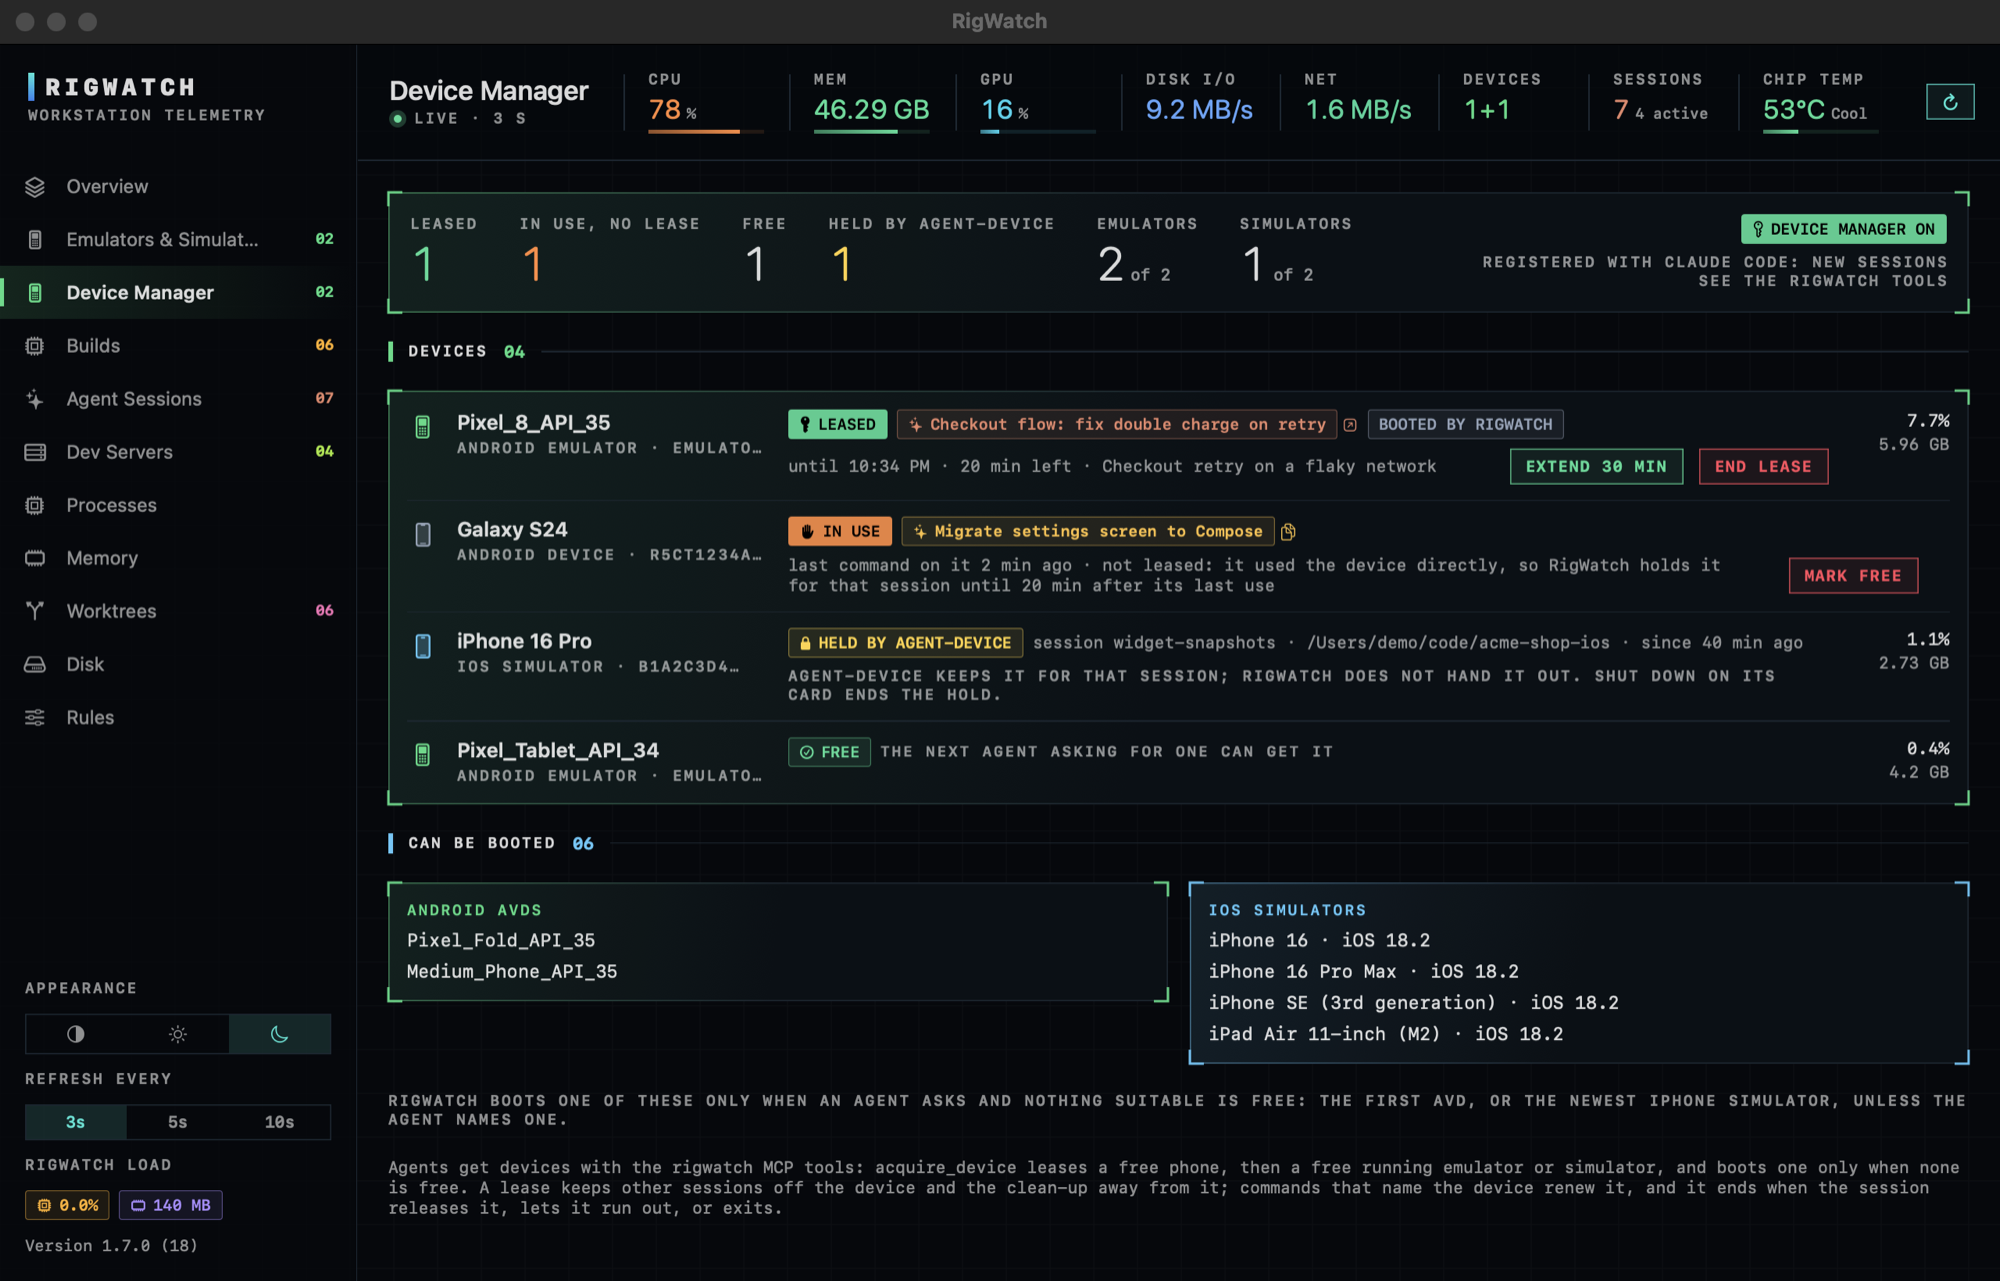
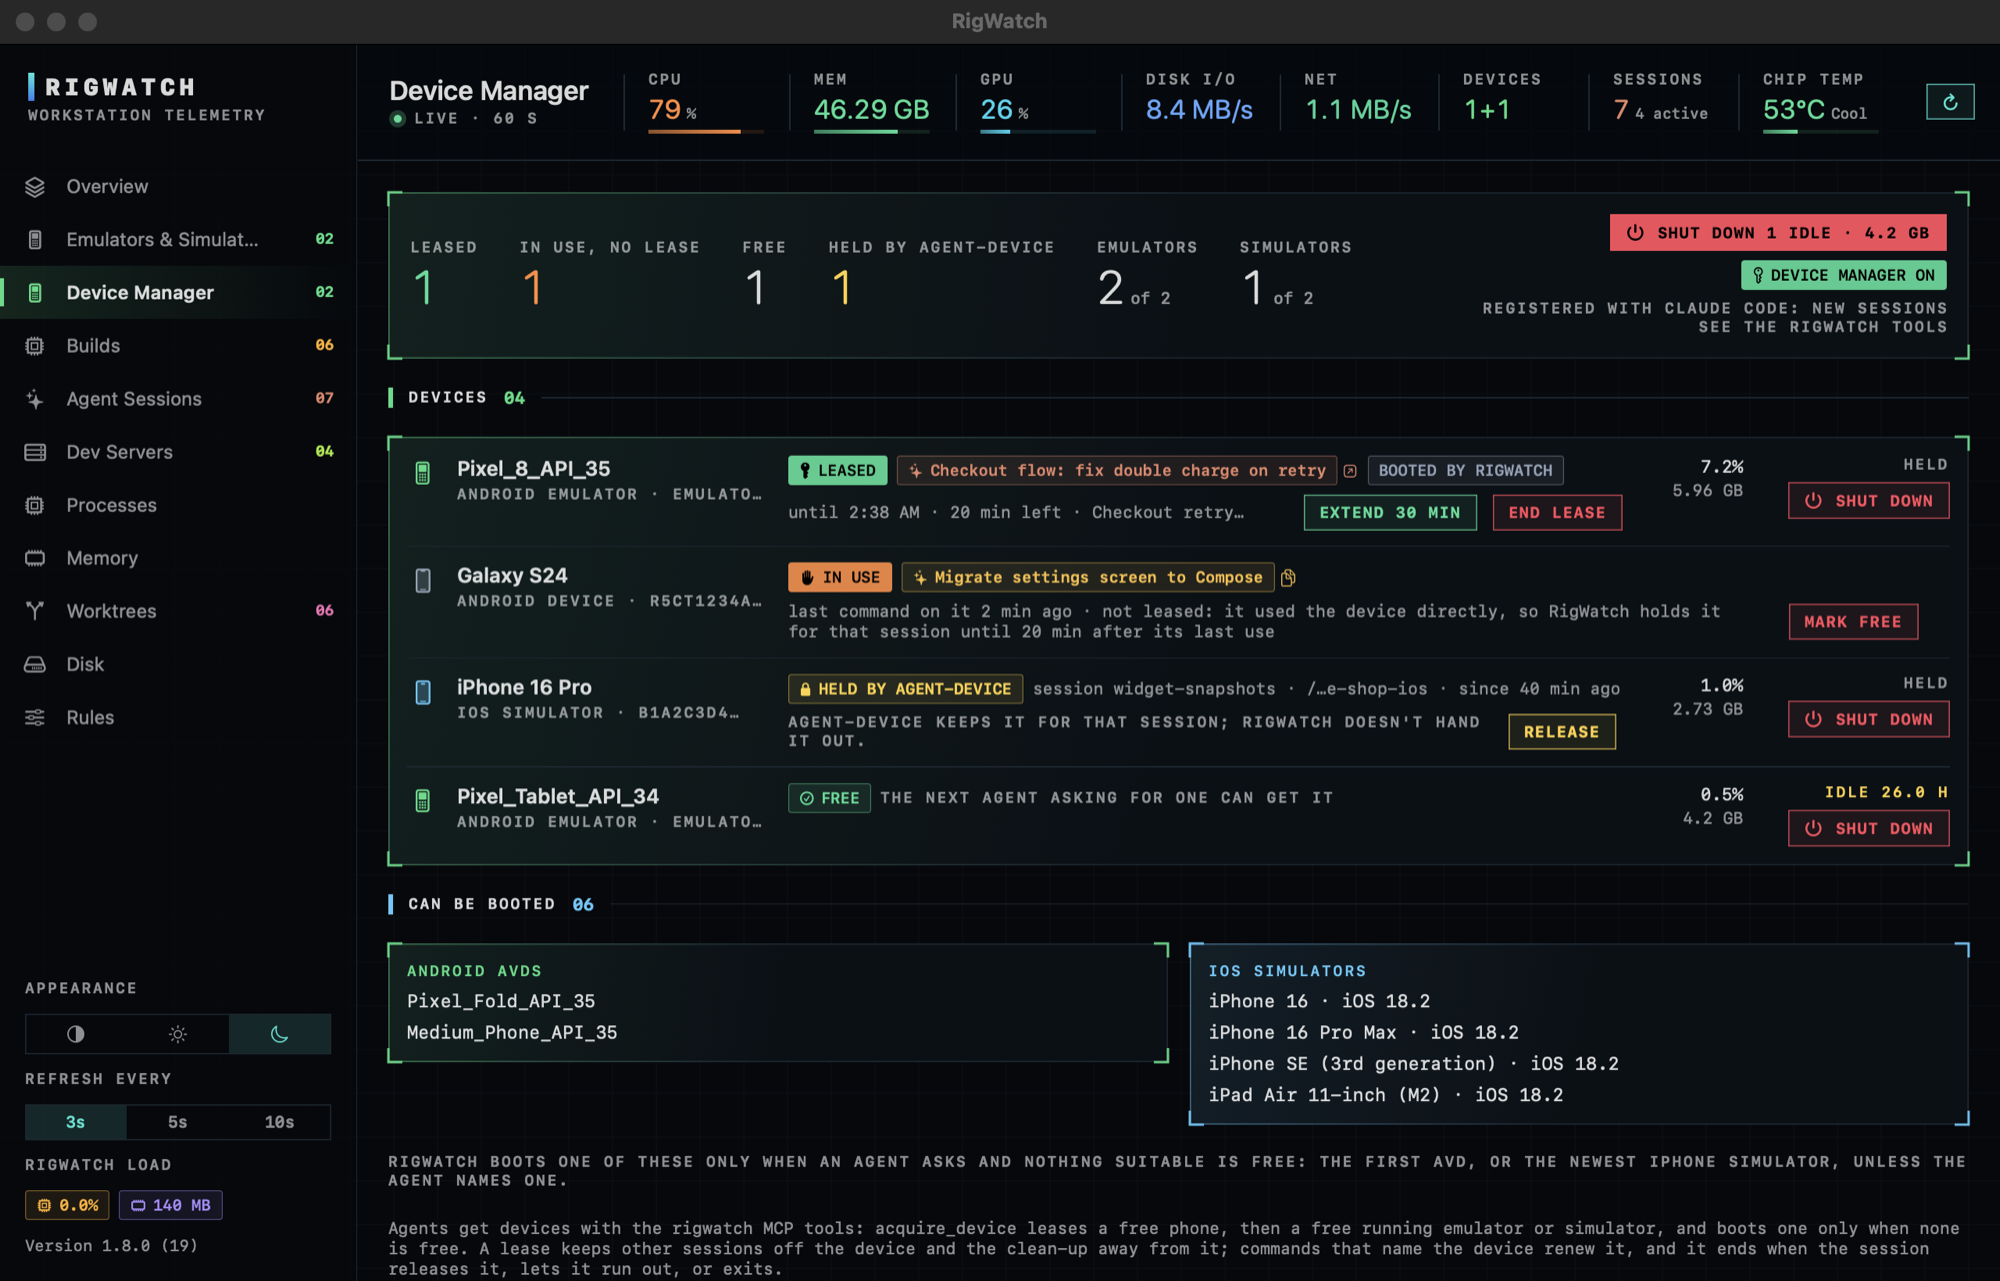
Shut down and release devices from the Device Manager page
Each emulator and simulator row shows how long it has been idle and has
a Shut down button, and the header shuts down every idle one at once:
nobody holds or uses it and nothing has used it for 10 minutes. A
device held by agent-device gets Release, which ends that hold but
keeps the device running, so the device manager can hand it out.

Shutting down now finishes the job: an emulator still running a minute
after the console quit and SIGTERM is force-stopped, and a simulator
simctl can't shut down has its launchd_sim stopped. The result says
when that happened.

diff --git a/Sources/RigWatch/Monitor.swift b/Sources/RigWatch/Monitor.swift
@@ -368,7 +368,7 @@ final class Monitor: ObservableObject {
     struct ActionOutcome: Equatable { let id = UUID(); let title: String; let text: String; let failed: Bool }
 
     /// Results are plain sentences; these words mark the ones where the action did not happen.
-    static func looksFailed(_ msg: String) -> Bool {
+    nonisolated static func looksFailed(_ msg: String) -> Bool {
         let m = msg.lowercased()
         return ["could not", "failed", "refused", "not allowed", "still running", "error", "no longer running"].contains { m.contains($0) }
     }
@@ -527,7 +527,7 @@ final class Monitor: ObservableObject {
         if let c = d.claim {
             msg += "\n\nHeld by agent-device for session \"\(c.session)\" (\(Views.tilde(c.workspace))) since \(Fmt.ago(c.since)). agent-device boots it again if it is only shut down, so this ends that session with `agent-device close --session \(c.session) --shutdown`. The agent using it loses the device until it claims one again."
         } else {
-    msg += d.kind == .simulator ? "\n\nRuns `simctl shutdown`." : "\n\nAsks the emulator to quit through its console (adb emu kill). SIGTERM only if it does not answer in 15 s."
+    msg += d.kind == .simulator ? "\n\nRuns `simctl shutdown`, and force-stops the simulator if that fails." : "\n\nAsks the emulator to quit through its console (adb emu kill), which saves its quick-boot snapshot. If it is still running after a minute: SIGTERM, then a force stop (SIGKILL)."
         }
         if let l = d.lease {
             msg += "\n\n⚠ Leased to \(sessionLabel(l.session)) until \(Leases.time(l.until))\(l.purpose.isEmpty ? "" : " for \"\(l.purpose)\"") through RigWatch's device manager. Shutting it down ends the lease; that session gets an error the next time it uses the device."
@@ -540,14 +540,51 @@ final class Monitor: ObservableObject {
             case .pending, .delivered: msg += "\n\n\(who) has not answered whether it is safe yet (asked \(Fmt.ago(a.askedAt)))."
             }
         }
-        let claim = d.claim
-        pending = Pending(title: "Shut down \(d.name)?", message: msg, button: "Shut Down") {
-            let r = claim.map { AgentDevice.release($0, deviceName: d.name) } ?? DeviceSampler.shutDown(d)
-            if !Self.looksFailed(r) {   // a stale answer or lease must not carry over to its next boot
-                Asks.forget(device: d.id)
-                Leases.edit { $0.removeAll { $0.covers(d) } }
-            }
-            return r
+        pending = Pending(title: "Shut down \(d.name)?", message: msg, button: "Shut Down") { Self.shutDownNow(d) }
+    }
+
+    /// Ends an agent-device hold (or shuts down directly), then forgets the device's lease and open question.
+    nonisolated static func shutDownNow(_ d: Device) -> String {
+        let r = d.claim.map { AgentDevice.release($0, deviceName: d.name) } ?? DeviceSampler.shutDown(d)
+        if !looksFailed(r) {   // a stale answer or lease must not carry over to its next boot
+            Asks.forget(device: d.id)
+            Leases.edit { $0.removeAll { $0.covers(d) } }
+        }
+        return r
+    }
+
+    /// Ends agent-device's hold on a device but leaves it running, so the device manager can hand it out.
+    func confirmReleaseHold(_ d: Device) {
+        guard let c = d.claim else { return }
+        let msg = "agent-device holds \(d.name) for its session \"\(c.session)\" (\(Views.tilde(c.workspace))) since \(Fmt.ago(c.since)).\n\nReleasing ends that agent-device session with `agent-device close --session \(c.session)`: the agent using it loses its hold (and any app session agent-device had open there) and gets an error on its next agent-device command. The device keeps running and becomes free for other sessions."
+        pending = Pending(title: "Release \(d.name)?", message: msg, button: "Release") { AgentDevice.release(c, deviceName: d.name, shutDown: false) }
+    }
+
+    /// How long nothing has used a device, or nil while something does: a lease (or in-use mark), an
+    /// agent-device hold, or an agent session working with it right now.
+    func idleFor(_ d: Device) -> TimeInterval? {
+        guard d.kind != .phone, d.lease == nil, d.claim == nil else { return nil }
+        let users = ([d.launchedBy].compactMap { $0 } + Array(d.recentUsers.keys)).compactMap { session($0) }
+        if users.contains(where: \.isWorking) { return nil }
+        let last = ([Demo.on ? nil : Rules.touched(d.id), d.lastAction?.at, d.started] + Array(d.recentUsers.values)).compactMap { $0 }.max()
+        return last.map { max(0, Date().timeIntervalSince($0)) }
+    }
+
+    static let idleShutDownAfter: TimeInterval = 600
+
+    /// Every emulator and simulator nobody holds or uses that has been idle at least 10 minutes.
+    var idleDevices: [Device] { devices.filter { (idleFor($0) ?? 0) >= Self.idleShutDownAfter }.sorted { $0.mem > $1.mem } }
+
+    func confirmShutDownIdle() {
+        let list = idleDevices
+        guard !list.isEmpty else { toast = "No emulator or simulator has been idle for 10 minutes."; return }
+        let total = list.reduce(UInt64(0)) { $0 + $1.mem }
+        var msg = list.map { "• \($0.name) · \(Fmt.bytes($0.mem)) · idle \(Fmt.ago(Date().addingTimeInterval(-(idleFor($0) ?? 0))).replacingOccurrences(of: " ago", with: ""))" }.joined(separator: "\n")
+        msg += "\n\nFrees about \(Fmt.bytes(total)). None is leased, in use, held by agent-device or used by a working agent session. Each is asked to quit first and forced only if it doesn't."
+        pending = Pending(title: "Shut down \(list.count) idle device\(list.count == 1 ? "" : "s")?", message: msg, button: "Shut Down All") {
+            let results = list.map { Self.shutDownNow($0) }
+            let failed = results.filter(Self.looksFailed)
+            return failed.isEmpty ? "Shut down \(list.count) idle device\(list.count == 1 ? "" : "s"), about \(Fmt.bytes(total)) freed." : results.joined(separator: "\n")
         }
     }
 

diff --git a/Sources/RigWatch/DeviceManagerView.swift b/Sources/RigWatch/DeviceManagerView.swift
@@ -69,6 +69,13 @@ struct DeviceManagerView: View {
                 capReadout("Simulators", devs.filter { $0.kind == .simulator }.count, Rules.virtualCap("ios", s))
                 Spacer(minLength: 12)
                 VStack(alignment: .trailing, spacing: 6) {
+                    let idle = m.idleDevices
+                    if !idle.isEmpty {
+                        Button { m.confirmShutDownIdle() } label: {
+                            Label("Shut down \(idle.count) idle · \(Fmt.bytes(idle.reduce(UInt64(0)) { $0 + $1.mem }))", systemImage: "power")
+                        }.buttonStyle(HUDButton(color: Color(hex: 0xFF4D5E), filled: true))
+                        .help("Every emulator and simulator nobody holds or uses that has been idle 10 minutes or more.")
+                    }
                     Chip(text: registered ? "DEVICE MANAGER ON" : "DEVICE MANAGER OFF", icon: "key", color: registered ? Color(hex: 0x3DDC97) : Aspect.process.color, filled: registered)
                     Text(registered ? "Registered with Claude Code: new sessions see the rigwatch tools" : "Not registered: turn the rules on (Rules page) so agents can ask for devices")
                         .hudLabel().multilineTextAlignment(.trailing)
@@ -96,7 +103,11 @@ struct DeviceManagerView: View {
                         Text("session \(c.session) · \(Views.tilde(c.workspace)) · since \(Fmt.ago(c.since))")
                             .font(.system(size: 10.5, design: .monospaced)).foregroundStyle(.secondary).lineLimit(1).truncationMode(.middle)
                     }
-                    Text("agent-device keeps it for that session; RigWatch does not hand it out. Shut Down on its card ends the hold.").hudLabel()
+                    HStack(spacing: 10) {
+                        Text("agent-device keeps it for that session; RigWatch doesn't hand it out.").hudLabel()
+                        Button("Release") { m.confirmReleaseHold(d) }.buttonStyle(HUDButton(color: Color(hex: 0xFFD23F)))
+                            .help("End agent-device's hold but keep the device running. Shut down ends the hold and stops it.")
+                    }
                 } else {
                     HStack(spacing: 6) {
                         Chip(text: "FREE", icon: "checkmark.circle", color: Color(hex: 0x3DDC97)).fixedSize()
@@ -111,6 +122,16 @@ struct DeviceManagerView: View {
                     Text(Fmt.cpu(d.cpu)).font(.system(size: 11, design: .monospaced))
                     Text(Fmt.bytes(d.mem)).font(.system(size: 10.5, design: .monospaced)).foregroundStyle(.secondary)
                 }.fixedSize()
+                VStack(alignment: .trailing, spacing: 5) {
+                    if let idle = m.idleFor(d) {
+                        Text("idle \(BuildsView.span(idle))").hudLabel(idle >= Monitor.idleShutDownAfter ? Color(hex: 0xFFD23F).readable(scheme) : nil).fixedSize()
+                    } else {
+                        Text(d.lease != nil || d.claim != nil ? "held" : "used by a working session").hudLabel().fixedSize()
+                    }
+                    Button { m.confirmShutDown(d) } label: { Label("Shut down", systemImage: "power") }
+                        .buttonStyle(HUDButton(color: Color(hex: 0xFF4D5E)))
+                        .help("Asks it to quit and frees its memory; forces it if it doesn't respond. The confirmation says who is using it.")
+                }.frame(width: 120, alignment: .trailing)
             }
         }
     }

diff --git a/Sources/RigWatch/Devices.swift b/Sources/RigWatch/Devices.swift
@@ -206,10 +206,16 @@ final class DeviceSampler {
     }
 
     /// Graceful shutdown: emulator console `kill` / `simctl shutdown`, then SIGTERM if it is still up.
+    /// Asks first, then forces: a device someone chose to shut down must actually stop and give its memory back.
     static func shutDown(_ d: Device) -> String {
         if d.kind == .simulator {
             let r = Sh.run("/usr/bin/xcrun", ["simctl", "shutdown", d.id], timeout: 60)
-            return r.code == 0 ? "Shut down \(d.name)." : "simctl shutdown failed: \(r.err.prefix(200))"
+            if r.code == 0 { return "Shut down \(d.name)." }
+            // simctl gave up (a hung simulator): stop its launchd_sim, which takes every process of that simulator with it.
+            guard let pid = d.pid, kill(pid, 0) == 0 else { return "simctl shutdown failed: \(r.err.prefix(200))" }
+            kill(pid, SIGKILL)
+            for _ in 0..<20 { if kill(pid, 0) != 0 { return "\(d.name) did not shut down normally (simctl: \(r.err.prefix(120).trimmingCharacters(in: .whitespacesAndNewlines))), so RigWatch force-stopped it." }; usleep(250_000) }
+            return "Could not stop \(d.name): simctl failed and its process (pid \(pid)) did not exit."
         }
         if let s = d.serial { _ = Sh.run(Sh.adb, ["-s", s, "emu", "kill"], timeout: 10) }
         guard let pid = d.pid else { return "Sent kill to \(d.name)." }
@@ -217,7 +223,9 @@ final class DeviceSampler {
         for _ in 0..<120 { if kill(pid, 0) != 0 { return "Shut down \(d.name)." }; usleep(500_000) }
         kill(pid, SIGTERM)
         for _ in 0..<20 { if kill(pid, 0) != 0 { return "\(d.name) did not answer the console; stopped it with SIGTERM." }; usleep(500_000) }
-        return "\(d.name) is still running after SIGTERM (pid \(pid)). Use Force Quit in Processes if you are sure."
+        kill(pid, SIGKILL)
+        for _ in 0..<20 { if kill(pid, 0) != 0 { return "\(d.name) ignored the console and SIGTERM, so RigWatch force-stopped it (its quick-boot snapshot was not saved)." }; usleep(250_000) }
+        return "Could not stop \(d.name) (pid \(pid)): it is still running after SIGKILL."
     }
 }
 

diff --git a/Sources/RigWatch/AgentDevice.swift b/Sources/RigWatch/AgentDevice.swift
@@ -42,13 +42,19 @@ enum AgentDevice {
         return out
     }
 
-    /// Ends the agent-device session that holds the device and shuts the device down with it.
-    static func release(_ c: Claim, deviceName: String) -> String {
-        guard let cli else { return "Could not release \(deviceName): agent-device holds it but its command was not found, so it would boot it again." }
-        let r = Sh.run(cli, ["close", "--session", c.session, "--shutdown"], timeout: 120)
+    /// Ends the agent-device session that holds the device, and shuts the device down with it unless told not to.
+    static func release(_ c: Claim, deviceName: String, shutDown: Bool = true) -> String {
+        guard let cli else { return "Could not release \(deviceName): agent-device holds it but its command was not found\(shutDown ? ", so it would boot it again" : "")." }
+        let r = Sh.run(cli, ["close", "--session", c.session] + (shutDown ? ["--shutdown"] : []), timeout: 120)
         guard r.code == 0 else {
             let why = (r.err.isEmpty ? r.out : r.err).trimmingCharacters(in: .whitespacesAndNewlines).prefix(240)
             return "agent-device close failed for session \(c.session) (exit \(r.code)): \(why)"
+        }
+        if !shutDown {
+            // Confirm the hold is really gone rather than trusting the exit code.
+            cache = (.distantPast, .distantPast, [:])
+            return claims().values.contains { $0.session == c.session } ? "agent-device still lists a hold for session \(c.session) on \(deviceName); it was not released."
+                : "Released \(deviceName) from agent-device session \(c.session). It keeps running and is free for other sessions."
         }
         return "Ended agent-device session \(c.session) and shut down \(deviceName); it stays off until an agent claims it again."
     }

diff --git a/Sources/RigWatch/Views.swift b/Sources/RigWatch/Views.swift
@@ -701,7 +701,8 @@ struct DeviceCard: View {
                             Chip(text: "HELD BY AGENT-DEVICE", icon: "lock.fill", color: Color(hex: 0xFFD23F)).fixedSize()
                             Text("session \(c.session) · \(Views.tilde(c.workspace)) · since \(Fmt.ago(c.since))")
                                 .font(.system(size: 10.5, design: .monospaced)).foregroundStyle(.secondary).lineLimit(1).truncationMode(.middle)
-                        }.help("agent-device boots this device again while that session holds it. Shut Down ends the session's claim so it stays off.")
+                            Button("Release") { m.confirmReleaseHold(d) }.buttonStyle(HUDButton(color: Color(hex: 0xFFD23F))).fixedSize()
+                        }.help("agent-device boots this device again while that session holds it. Release ends the hold and keeps it running; Shut Down ends the hold and stops it.")
                     }
                     if let l = d.launchedBy { sessionRow("Launched by", l) }
                     ForEach(d.recentUsers.sorted { $0.value > $1.value }.prefix(3), id: \.key) { u in sessionRow("Used by", u.key, when: u.value) }

diff --git a/README.md b/README.md
@@ -46,7 +46,7 @@ Activity Monitor shows all of it as 700 unrelated processes. RigWatch groups eve
 | **Agent Sessions** | Every coding agent running, with its CPU, memory, devices, worktrees and every process it started: dev servers, test runners, MCP servers, builds. Claude Code, OpenCode and Codex also show the session title and last prompt, and can be resumed. Cursor, Windsurf, T3 Code, Gemini CLI, Aider, Goose and Amp are recognised from their processes. |
 | **Dev Servers** | Every local server you started, by the port it listens on: a framework guess (Vite, Next.js, Storybook, Rails, Django, uvicorn and more), project folder, uptime, CPU and memory, and which agent session started it. That link is remembered, so a server left running after its session ended still says who started it. Open it in the browser, or stop it behind a confirmation. |
 | **Emulators & Simulators** | Each Android emulator and iOS simulator: what it's showing, which session launched it, the last command a session ran on it, whether it is leased, in use or held by agent-device, a live screen that opens at once, **Ask session** (is it safe to shut down?), and a graceful shut-down that also ends an agent-device hold, so it stays off. |
-| **Device Manager** | Every phone, emulator and simulator agents can be given, and who holds it: free, leased to a session (purpose, until when, booted by RigWatch), in use by a session that drives it directly, or held by agent-device. Extend a lease, end it, or mark a device free; running counts against the limits, and the AVDs and simulators RigWatch could boot. See [Hand out devices](#rules-one-mac-many-agents). |
+| **Device Manager** | Every phone, emulator and simulator agents can be given, and who holds it: free, leased to a session (purpose, until when, booted by RigWatch), in use by a session that drives it directly, or held by agent-device. Extend a lease, end it, mark a device free, release an agent-device hold, or shut a device down (all idle ones at once, forced if one hangs); running counts against the limits, and the AVDs and simulators RigWatch could boot. See [Hand out devices](#rules-one-mac-many-agents). |
 | **Builds** | Every Gradle, `xcodebuild` and install build: what holds an Android or iOS slot, what waits (its place, how long, and when it starts at the latest), what runs outside the queue and whether its priority is lowered, and recent builds with time waited and run. Start a waiting build now, cancel it, or stop a running one. |
 | **Processes** | Grouped by app or tool, with CPU on one scale (100% = the whole machine), each process's share of GPU time, and quit or force-quit behind a confirmation. |
 | **Memory** | Where the RAM went: apps, wired, compressed, file cache, swap and pressure, and **what you can free**: idle emulators and simulators, dormant agent sessions, abandoned dev servers, a loaded local model and big apps, each with its size and one button, adding up to "you could free ~X GB". GPU memory (a local model's weights) is counted once, in the process that holds it, not again as Kernel & drivers. |
